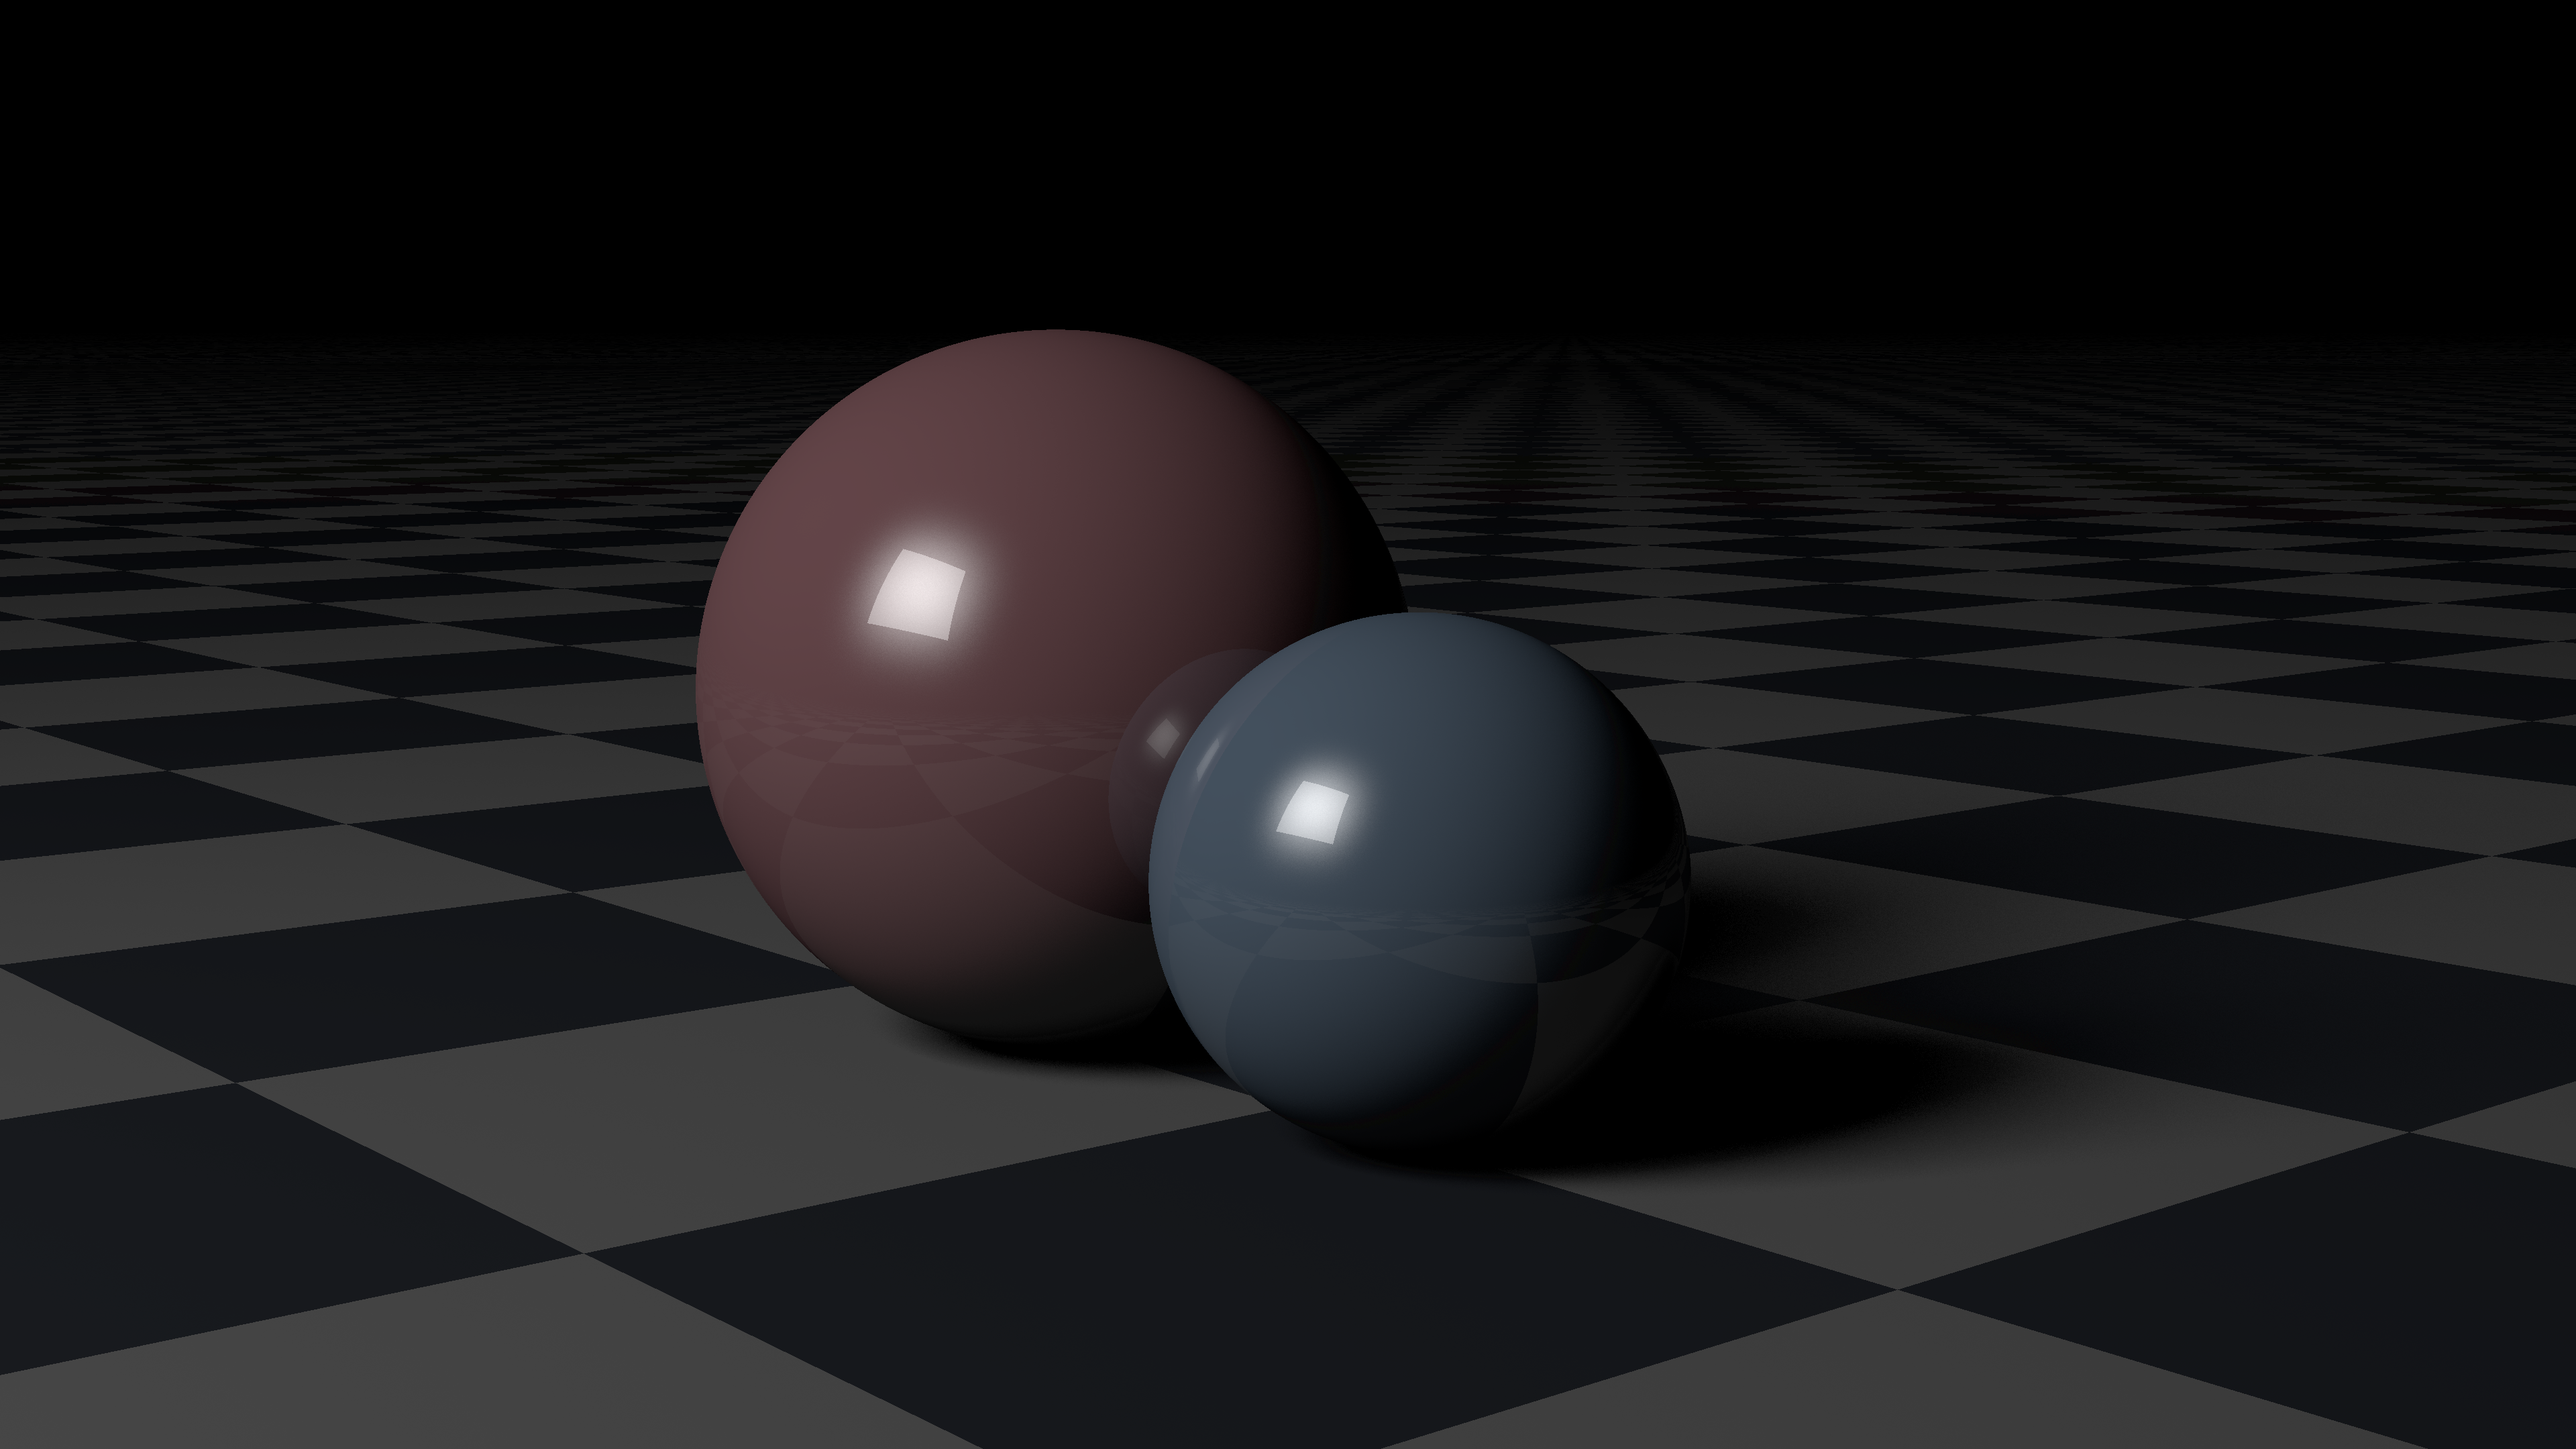
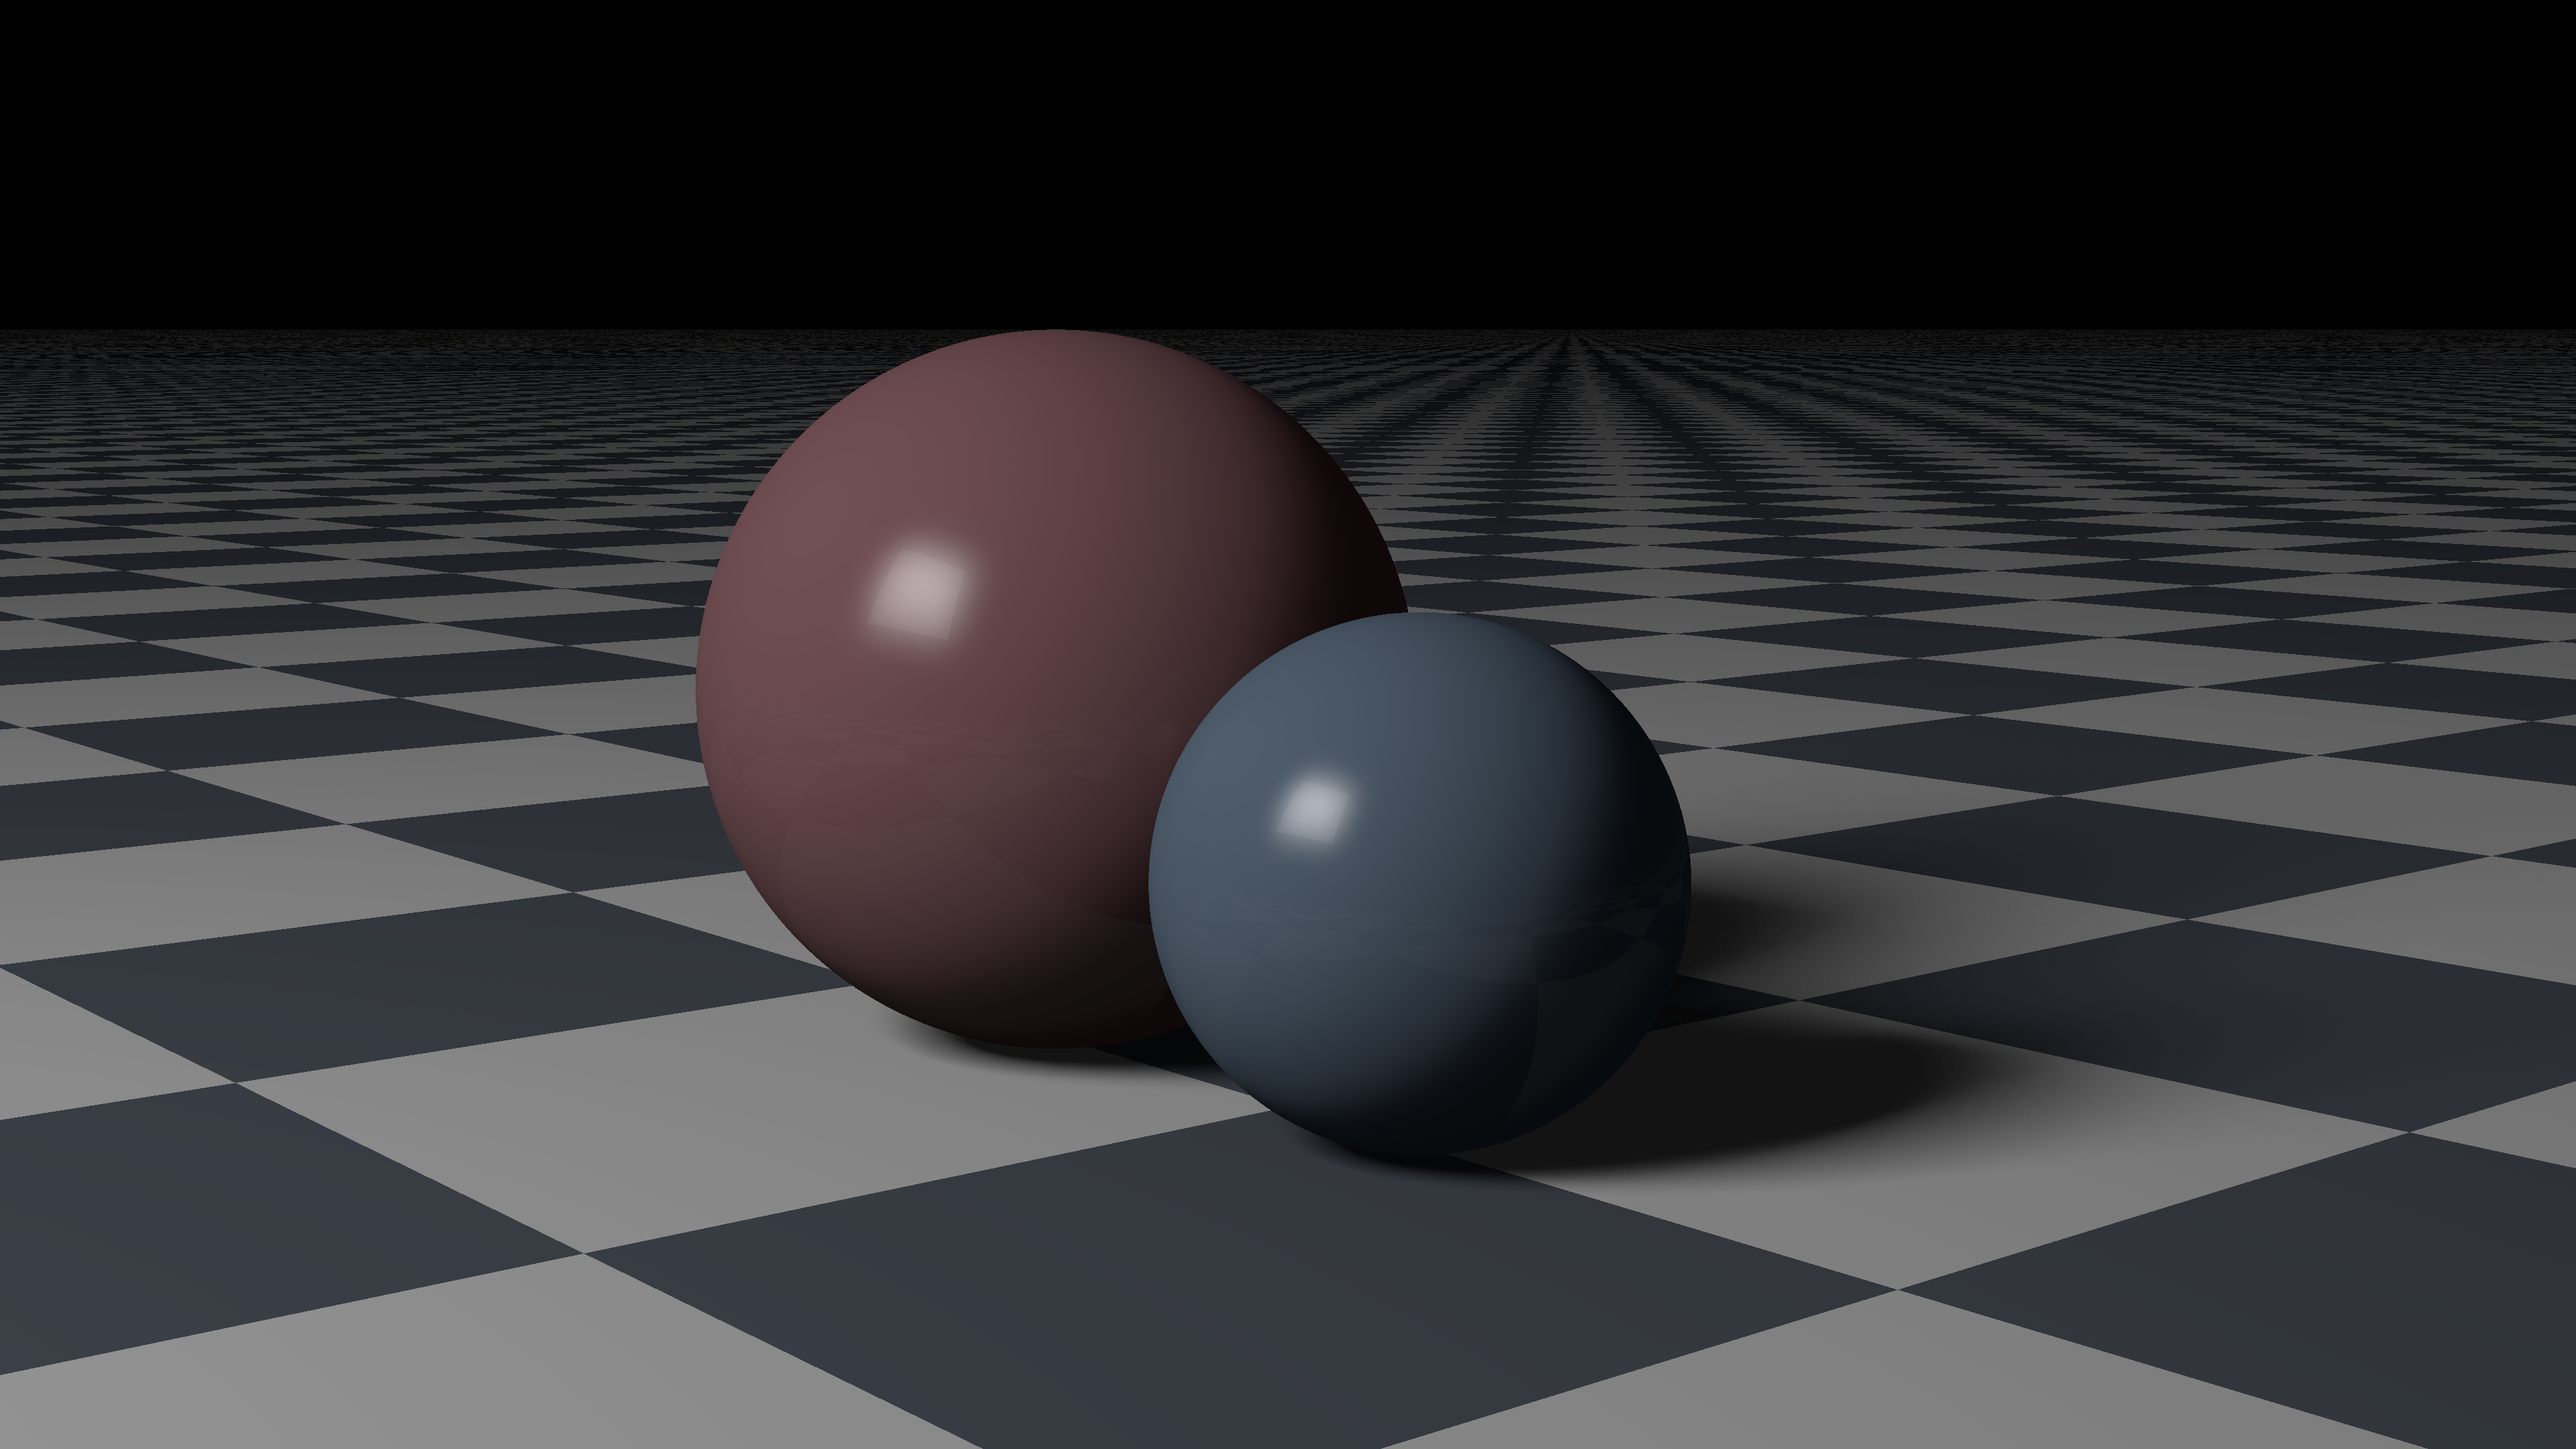
Updated sRGB

diff --git a/tests/soft_shadows/test_soft_shadows.c b/tests/soft_shadows/test_soft_shadows.c
@@ -154,17 +154,17 @@ static void soft_render_1(void) {
     struct tuple corner = tuple_new_point(-1, 2, 4);
     struct tuple full_u = tuple_new_vector(2, 0, 0);
     struct tuple full_v = tuple_new_vector(0, 2, 0);
-    struct area_light_rect light1 = lights_new_area_light_rect(corner, full_u, 15, full_v, 15, tuple_new_color(1, 1, 1));
+    struct area_light_rect light1 = lights_new_area_light_rect(corner, full_u, 10, full_v, 10, tuple_new_color(1, 1, 1));
     struct point_light light2 = lights_new_point_light(tuple_new_point(-5, 5, 0), tuple_new_color(1, 1, 1));
     struct world* world = world_new_world();
     world_add_area_light_rect(world, &light1);
     //world_add_point_light(world, &light2);
 
     s = sphere_new_sphere();
-    s->material.ambient = 0.;
+    s->material.ambient = 0.01;
     s->material.specular = 0.95;
-    s->material.diffuse = 0.2;
-    s->material.reflective = 0.15;
+    s->material.diffuse = 0.25;
+    s->material.reflective = 0.017;
     s->material.shininess = 100;
     s->material.color = NORD11;
     sphere_add_transform(s, matrix_new_scaling4(0.5, 0.5, 0.5));
@@ -172,10 +172,10 @@ static void soft_render_1(void) {
     world_add_sphere(world, s);
 
     s = sphere_new_sphere();
-    s->material.ambient = 0.;
+    s->material.ambient = 0.01;
     s->material.specular = 0.95;
-    s->material.diffuse = 0.2;
-    s->material.reflective = 0.15;
+    s->material.diffuse = 0.25;
+    s->material.reflective = 0.017;
     s->material.shininess = 100;
     s->material.color = NORD10;
     sphere_add_transform(s, matrix_new_scaling4(0.33, 0.33, 0.33));
@@ -183,8 +183,8 @@ static void soft_render_1(void) {
     world_add_sphere(world, s);
 
     struct plane* floor = plane_new_plane();
-    floor->material.ambient = 0.005;
-    floor->material.diffuse = 0.1;
+    floor->material.ambient = 0.01;
+    floor->material.diffuse = 0.4;
     floor->material.specular = 0;
     floor->material.shininess = 1;
     floor->material.pattern =  pattern_checker(tuple_new_color(1, 1, 1), NORD0);

diff --git a/src/canvas.c b/src/canvas.c
@@ -58,23 +58,20 @@ void canvas_to_ppm(struct canvas* c) {
 	    r = c->grid[INDEX(i, j, c->width)].x;
 	    g = c->grid[INDEX(i, j, c->width)].y;
 	    b = c->grid[INDEX(i, j, c->width)].z;
-	    //ri = (int) (scale * c->grid[INDEX(i, j, c->width)].x);
-	    //ri = (int) (scale * pow(c->grid[INDEX(i, j, c->width)].x, 1/2.2));
-	    ri = (int) (scale * canvas_linear_to_srgb(c->grid[INDEX(i, j, c->width)].x));
+	    //ri = (int) (scale * r);
+	    ri = (int) (scale * canvas_linear_to_srgb(r));
 	    if (ri > 255)
 		ri = 255;
 	    else if (ri < 0)
 		ri = 0;
-	    //gi = (int) (scale * c->grid[INDEX(i, j, c->width)].y);
-	    //gi = (int) (scale * pow(c->grid[INDEX(i, j, c->width)].y, 1/2.2));
-	    gi = (int) (scale * canvas_linear_to_srgb(c->grid[INDEX(i, j, c->width)].y));
+	    //gi = (int) (scale * g);
+	    gi = (int) (scale * canvas_linear_to_srgb(g));
 	    if (gi > 255)
 		gi = 255;
 	    else if (gi < 0)
 		gi = 0;
-	    //bi = (int) (scale * c->grid[INDEX(i, j, c->width)].z);
-	    //bi = (int) (scale * pow(c->grid[INDEX(i, j, c->width)].z, 1/2.2));
-	    bi = (int) (scale * canvas_linear_to_srgb(c->grid[INDEX(i, j, c->width)].z));
+	    //bi = (int) (scale * b);
+	    bi = (int) (scale * canvas_linear_to_srgb(b));
 	    if (bi > 255)
 		bi = 255;
 	    else if (bi < 0)

diff --git a/src/sphere.c b/src/sphere.c
@@ -89,19 +89,19 @@ sphere_intersect_ray(struct sphere* s, struct ray* r) {
     if (t1 < t2) {
 	struct intersection inter;
 	s->xs[0] = t1;
-	inter = intersection_new_intersection(s->xs[0], s);
+	inter = intersection_new_intersection(t1, s);
 	intersection_add_intersection_to_list(&inter_list, inter);
 	s->xs[1] = t2;
-	inter = intersection_new_intersection(s->xs[1], s);
+	inter = intersection_new_intersection(t2, s);
 	intersection_add_intersection_to_list(&inter_list, inter);
     }
     else {
 	struct intersection inter;
 	s->xs[0] = t2;
-	inter = intersection_new_intersection(s->xs[0], s);
+	inter = intersection_new_intersection(t2, s);
 	intersection_add_intersection_to_list(&inter_list, inter);
 	s->xs[1] = t1;
-	inter = intersection_new_intersection(s->xs[1], s);
+	inter = intersection_new_intersection(t1, s);
 	intersection_add_intersection_to_list(&inter_list, inter);
     }
 

diff --git a/includes/canvas.h b/includes/canvas.h
@@ -1,7 +1,7 @@
 #ifndef INCLUDES_CANVAS_H
 #define INCLUDES_CANVAS_H
 
-#define HIGH_RES	1
+#define HIGH_RES	3
 
 #if HIGH_RES == 3
 #define CANVAS_WIDTH		3840
